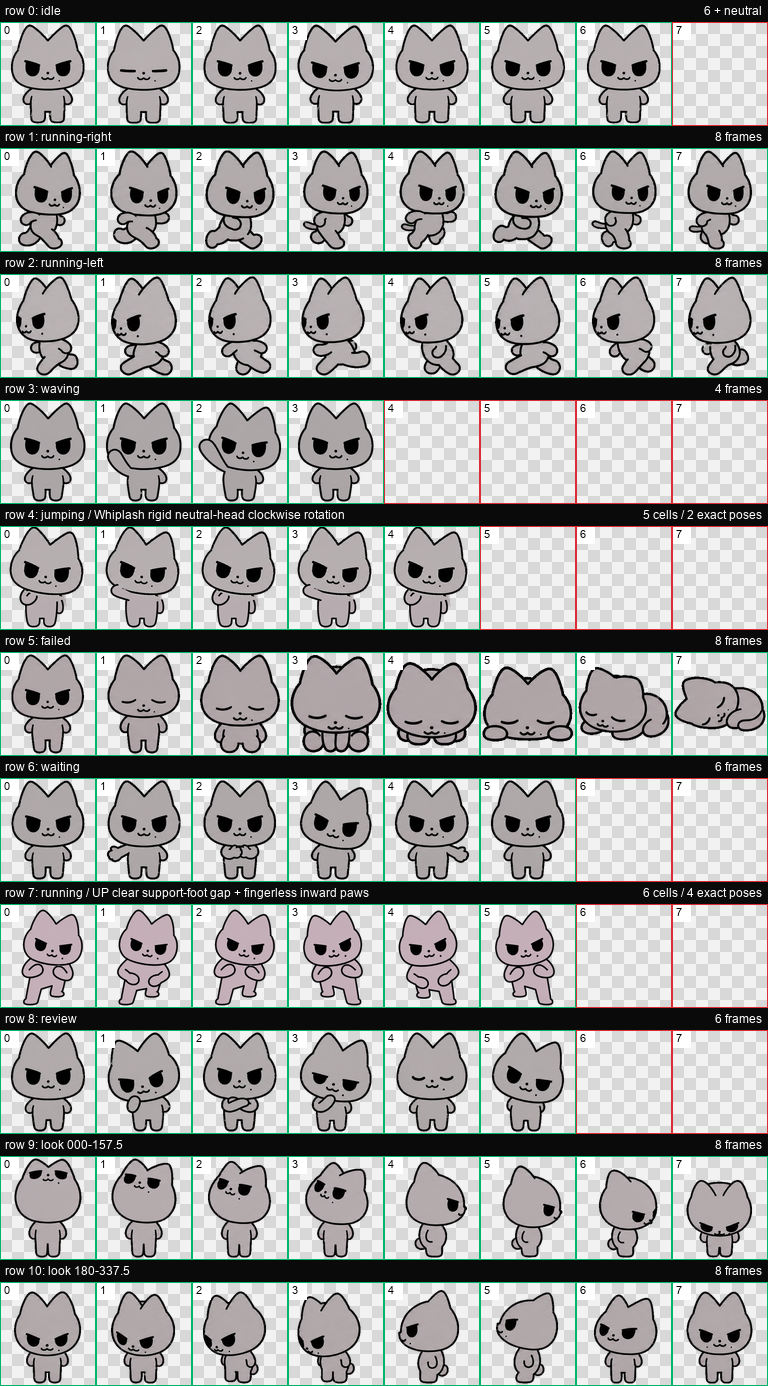
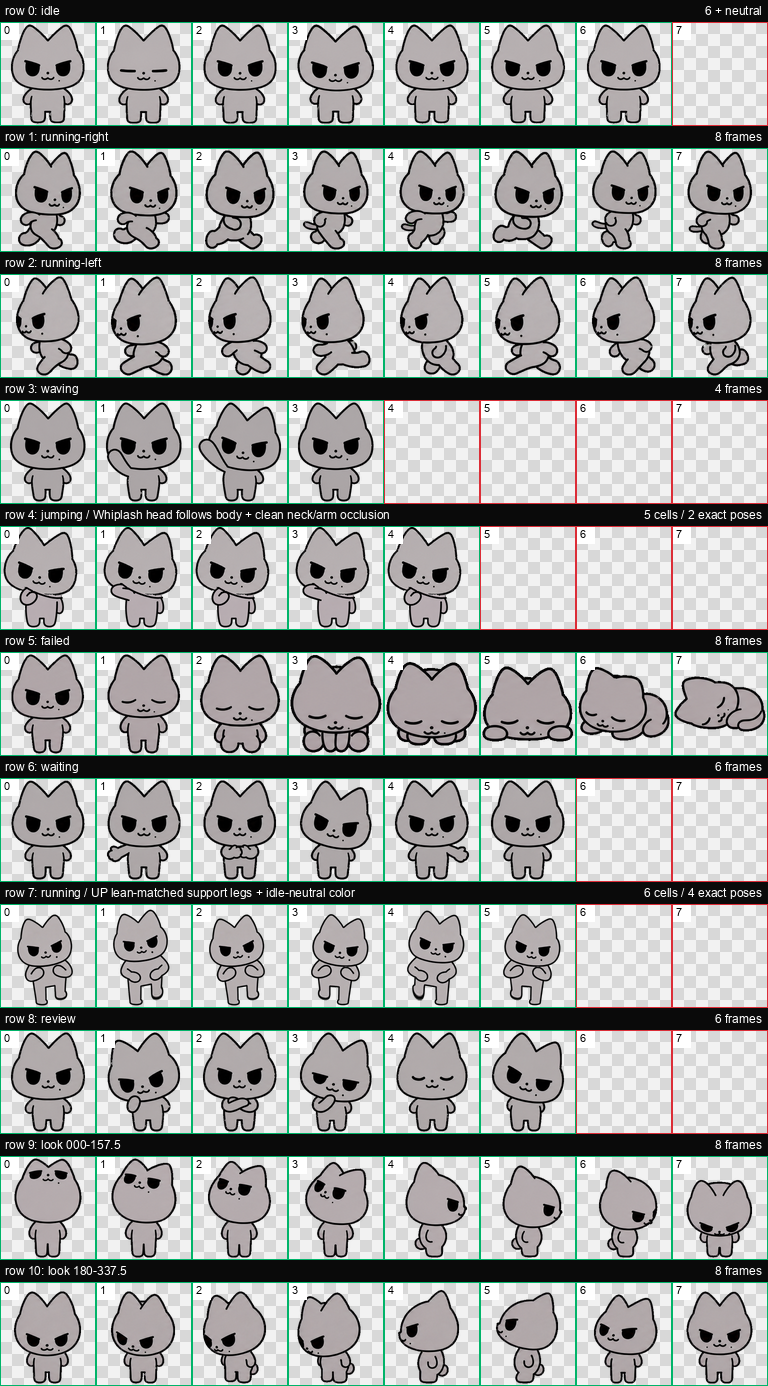
Fix Whiplash layering and UP support legs

diff --git a/README.md b/README.md
@@ -195,11 +195,11 @@ PowerShell 当前打开的不是正确文件夹。确认窗口所在目录中能
 - 粗黑描边与简洁灰黑色块，不使用毛绒、摄影或 3D 材质
 - 已通过结构、透明通道、色键残留与方向语义检查
 
-将鼠标悬停在宠物上时，`jumping` 状态会播放《Whiplash》“One look give 'em Whiplash”的五帧单侧抓颈抬肘动作。抓颈手始终固定在画面左侧颈部，另一只手臂在画面右侧自然下垂，不镜像身体或交换双手。头部不再重新绘制：它直接采用待机状态的原始中性头，把头形、双眼上沿、眼睛、鼻子、嘴和右脸小痣合成一个刚性整体，以头部中心为不动点顺时针旋转 8°，因此五官与眼线上沿会和整颗头完全同步，不会出现单侧挑眉，耳尖也不会碰到画布边界。第 1、3、5 帧主动肘在身前低位，第 2、4 帧向画面左侧外旋到高位，形成“低—高—低—高—低”的清楚循环；身体、抓颈手和双脚仍保持原来的位置，也不添加进入或收尾动作。
+将鼠标悬停在宠物上时，`jumping` 状态会播放《Whiplash》“One look give 'em Whiplash”的五帧单侧抓颈抬肘动作。抓颈手始终固定在画面左侧颈部，另一只手臂在画面右侧自然下垂，不镜像身体或交换双手。头部不再重新绘制：它直接采用待机状态的原始中性头，把头形、双眼上沿、眼睛、鼻子、嘴和右脸小痣合成一个刚性整体，以 `(95, 71)` 为头部内部的局部旋转中心顺时针旋转 8°；这个点只对旋转保持不动，随后会跟随躯干中轴从低肘姿势的 `x=83` 移到高肘姿势的 `x=91`，所以头和身体会同步横移 8 像素，不会出现“身体动、头留在原地”。第 1、3、5 帧主动肘在身前低位，第 2、4 帧向画面左侧外旋到高位，形成“低—高—低—高—低”的清楚循环。合成时保留原始主动臂和右侧下垂臂的完整轮廓；高肘帧只在前景手臂实际覆盖的区域去掉下巴的重复描边，再把完整手臂放回最前层。颈部内部细缝会先用待机同色填实，外露边缘再统一成黑色描边，不使用会向外溢出的固定灰块，因此右手、抬肘手和下巴不会出现断线、双线粘连、透明裂缝或灰色溢出，也不添加进入或收尾动作。
 
 ![《Whiplash》五帧悬停动作预览](preview/whiplash-dance.gif)
 
-当 Codex 进入 `running`（任务正在运行）状态时，会播放《UP》“I pump it, I pump it, I pump it up”的六格甩手动作。第 1、2、3 格保持同一侧支撑脚和同一条倾斜直轴，第 4、5、6 格换到另一侧；头、颈、躯干、骨盆和支撑腿保持同向，不把角色弯成弧线。六格中双肘始终是手臂最外点，大臂先向外、前臂再折回中线，两只圆爪始终互相指向，轮廓读作 `<>`。第 1、3、4、6 格手腕高于肘、掌背朝外；第 2、5 格手腕低于肘、掌心朝地，但手仍朝内，不摊成 `_/身体\_`。圆爪统一为无手指、无分叉、无尖角的光滑手套轮廓。每一格的支撑脚都稳定落在较低基线，另一只脚整只抬起且脚底水平位置明显更高，不露脚底或肉垫；右脸小痣在六格中保持同一脸部位置，也不添加其他动作。
+当 Codex 进入 `running`（任务正在运行）状态时，会播放《UP》“I pump it, I pump it, I pump it up”的六格甩手动作。第 1、2、3 格向左倾并由左脚支撑，第 4、5、6 格向右倾并由右脚支撑；头、颈、躯干、骨盆和支撑腿保持同一条倾斜直轴，不把角色弯成弧线。六格中双肘始终是手臂最外点，大臂先向外、前臂再折回中线，两只圆爪始终互相指向，轮廓读作 `<>`。第 1、3、4、6 格手腕高于肘、掌背朝外；第 2、5 格手腕低于肘、掌心朝地，但手仍朝内，不摊成 `_/身体\_`。圆爪统一为无手指、无分叉、无尖角的光滑手套轮廓。四个主姿势中，同侧支撑脚底都落在 `y=202`，另一只抬起脚的脚底位于 `y=192`，稳定相差 10 像素；也就是向左倾时左脚更低、向右倾时右脚更低，不露脚底或肉垫。身体主填充色与待机状态使用相同的 `#B6AFB0`，右脸小痣在六格中保持同一脸部位置，也不添加其他动作。
 
 ![《UP》六格任务运行动作预览](preview/up-dance.gif)
 
@@ -235,7 +235,7 @@ qa/
 
 ## English
 
-An unofficial Codex desktop pet based on the aespa Karina fan-created character “JUST Big Cat.” Hovering triggers a five-frame “Whiplash” neck-grab pulse: the original neutral head and every facial feature rotate together as one rigid layer, 8° clockwise around the head center. While a task is running, “UP” uses L-up, L-down, L-up, R-up, R-down, R-up: elbows remain outermost, both forearms fold inward, the smooth fingerless paws face each other in a clear `<>` silhouette, and the grounded support foot sits visibly lower than the lifted foot.
+An unofficial Codex desktop pet based on the aespa Karina fan-created character “JUST Big Cat.” Hovering triggers a five-frame “Whiplash” neck-grab pulse: the original neutral head and every facial feature rotate together as one rigid layer, 8° clockwise around the head-local center, while that center follows the moving body axis from x=83 to x=91. Exact foreground-arm occlusion removes the duplicate chin stroke, closes the internal neck seam, and preserves the passive arm without a leaking fixed gray patch. While a task is running, “UP” uses L-up, L-down, L-up, R-up, R-down, R-up: the lean and support side always match, the support foot ends at y=202 and the lifted foot at y=192, the fill uses the idle `#B6AFB0`, and both smooth fingerless paws face each other in a clear `<>` silhouette.
 
 Download and extract the [project ZIP](https://github.com/Au-Cu/just-big-cat-codex-pet/archive/refs/heads/main.zip). On Windows, open PowerShell in the extracted folder and run:
 

diff --git a/qa/choreography-references.md b/qa/choreography-references.md
@@ -10,7 +10,7 @@
 - [M2 官方 Karina 直拍，约 00:39.00–00:41.08](https://www.youtube.com/watch?v=AFQaZjWBCb4&t=39s)
 - [aespa 官方 Karina 短片](https://www.youtube.com/watch?v=rQhi0viq-FU)
 
-逐帧核对用于确认“抓颈手不离开颈部、主动肘由低位到外旋高位”的关系。本版不重新绘制头部，而是直接从待机第 1 格提取原始中性头；头形、双眼上沿、眼睛、鼻子、嘴和右脸小痣作为同一 RGBA 刚体，以头部包围盒中心 `(95, 71)` 为不动点顺时针旋转 8°。因此所有五官会与头部同步旋转，不会因单独调整眼线上沿而产生挑眉感；8° 也让完整耳尖保留在 192 × 208 画布内。抓颈手固定在画面左侧颈部，主动肘也留在画面左侧，另一只手臂在画面右侧自然下垂；躯干与双脚沿用上一版已经确认的落地姿势，旋转后产生的颈部空隙只用躯干同色底层遮合，不新增动作线或重复轮廓。
+逐帧核对用于确认“抓颈手不离开颈部、主动肘由低位到外旋高位”的关系。本版不重新绘制头部，而是直接从待机第 1 格提取原始中性头；头形、双眼上沿、眼睛、鼻子、嘴和右脸小痣作为同一 RGBA 刚体，以头部内部坐标 `(95, 71)` 为局部旋转中心顺时针旋转 8°。这个中心只在头部自身旋转时保持不动：合成到低肘和高肘姿势时，它分别平移到躯干中轴 `x=83` 与 `x=91`，所以头部和身体会一起横移 8 像素。所有五官都与头部同步旋转，不会因单独调整眼线上沿而产生挑眉感；合成时再向下留 1 像素安全边距，使画布顶行完全透明。抓颈手固定在画面左侧颈部，主动肘也留在画面左侧，另一只手臂在画面右侧自然下垂。合成先保留上一版躯干和双臂的完整语义组件；高肘姿势在手臂接触多边形内，用前景臂自身的精确 alpha 从刚性头层扣掉被遮挡部分，然后把未经膨胀的完整前景臂放回最上层。因此交叉处只保留前臂这一条正确轮廓，不会与下巴叠成双线；右侧下垂臂安全区域与原始帧逐像素一致，主动臂暗线也是单一连通组件。颈部内部短缝按头底与躯干顶的实际距离逐列填实，不使用固定灰色桥接块；最后才把真正外露的填充边缘转成黑色描边，从而同时消除断线、透明裂缝和灰色溢出。
 
 当前运行时只读取 5 格，因此图集采用信息密度最高的压缩映射：
 
@@ -30,7 +30,7 @@
 - [首尔 60fps 固定机位，约 00:30.85–00:33.35](https://www.youtube.com/watch?v=tH4ROgCUA50&t=30s)
 - [aespa 官方全身版 UP Challenge，重点核对约 00:04.18–00:05.10](https://www.youtube.com/watch?v=geGsr791U9c&t=4s)
 
-视频复核用于确认重心、脚部和手臂折线关系：身体向支撑脚同侧倾，支撑脚稳定落在低基线，另一只脚整只抬起且脚底水平位置更高；游离脚不是高抬腿，也不把脚底转向镜头。成品 192 × 208 帧中支撑脚底均位于 `y=202`，游离脚底位于 `y=186–189`，四个主姿势都有明确的 13–16 像素高度差。官方 Challenge 约 00:04.30/00:04.53 的上翻相位和约 00:04.43/00:04.68 的下压相位都显示肘在外、手收回身体中线，而不是把手甩到肘外。本版将其简化成稳定的 `<>`：大臂由肩向外到肘，小臂由肘折回中线，两只手始终相向。上翻时手腕高于肘、掌背朝外；下翻时手腕低于肘、掌心朝地，但手仍朝内。手掌末端统一为光滑的无指圆爪，不绘制手指、分叉、尖角或肉垫。
+视频复核用于确认重心、脚部和手臂折线关系：身体向支撑脚同侧倾——向左倾时左脚支撑，向右倾时右脚支撑；支撑脚稳定落在较低基线，另一只脚整只抬起且脚底位置更高。游离脚不是高抬腿，也不把脚底转向镜头。成品 192 × 208 帧中四个主姿势的支撑脚底都位于 `y=202`，游离脚底都位于 `y=192`，固定相差 10 像素。官方 Challenge 约 00:04.30/00:04.53 的上翻相位和约 00:04.43/00:04.68 的下压相位都显示肘在外、手收回身体中线，而不是把手甩到肘外。本版将其简化成稳定的 `<>`：大臂由肩向外到肘，小臂由肘折回中线，两只手始终相向。上翻时手腕高于肘、掌背朝外；下翻时手腕低于肘、掌心朝地，但手仍朝内。手掌末端统一为光滑的无指圆爪，不绘制手指、分叉、尖角或肉垫。四个姿势的主填充色统一锚定到待机图的 `#B6AFB0`，不再产生动作时变色。
 
 六个运行时格为：
 
